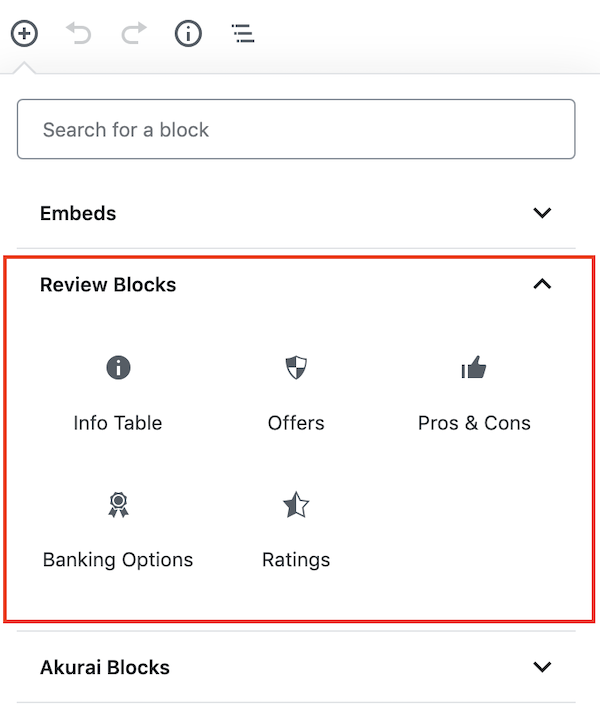
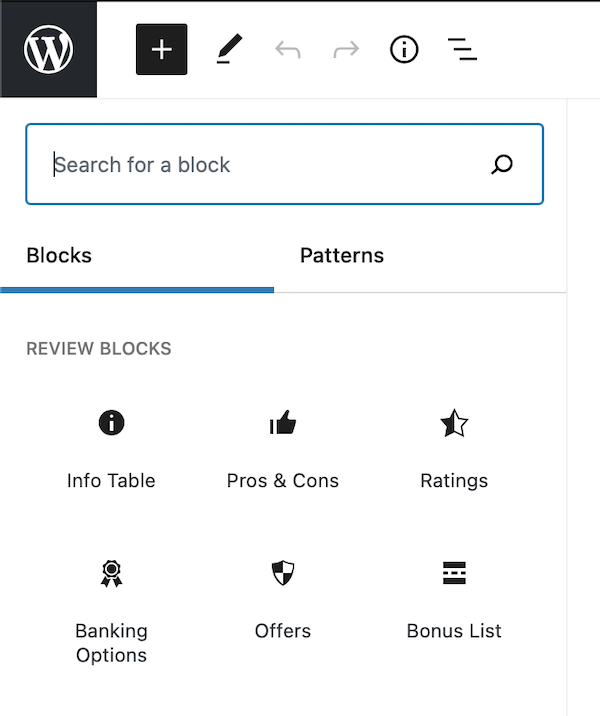
Akurai 2.0.4

diff --git a/build_production/docs/akurai/review-page-blocks/index.html b/build_production/docs/akurai/review-page-blocks/index.html
@@ -762,11 +762,14 @@
 <li>Ratings</li>
 <li>Banking</li>
 <li>Offers</li>
+<li>Bonus List</li>
 </ul>
 
 <p><img src="/assets/images/akurai/akurai-review-blocks.png" alt="akurai-review-blocks" /></p>
 
-<p>All the 5 blocks require no configuration, all you need is to just add them to the content by clicking on the block name. The information is populated from <a href="/docs/akurai/creating-review-pages/">Review Fields</a> that you need to have filled in beforehand.</p>
+<p>The 5 blocks, except Bonus List, require no configuration, all you need is to just add them to the content by clicking on the block name. The information is populated from <a href="/docs/akurai/creating-review-pages/">Review Fields</a> that you need to have filled in beforehand.</p>
+
+<p>For Bonus List block you need to specify bonuses and their names, as well as optional heading and button texts.</p>
 
 <h3>Shortcodes</h3>
 
@@ -774,11 +777,17 @@
 
 <ul>
 <li><code>[info]</code></li>
-<li><code>[offers]</code></li>
 <li><code>[pros_cons]</code></li>
-<li><code>[banking]</code></li>
 <li><code>[ratings]</code></li>
+<li><code>[banking]</code></li>
+<li><code>[offers]</code></li>
+<li><code>[bonus_list]</code></li>
 </ul>
+
+<p>For <code>[bonus_list]</code> shortcode here's how too specify bonuses:</p>
+
+<pre><code>[bonus_list bonus_1="1st BONUS" bonus_2="2nd BONUS" bonus_3="" bonus_4="" bonus_5=""]
+</code></pre>
 
 <h3>Blocks in Content Area</h3>
 
@@ -805,7 +814,7 @@
 
         <nav id="js-page-menu" class="page-menu hidden py-8 lg:w-48 lg:max-w-sidebar lg:block sticky" style="top: 4rem;">
             <h4 class="mb-8 font-bold text-grey text-lg pb-1 border-b inline-block">
-                AKURAI v2.0.3
+                AKURAI v2.0.4
             </h4>
 
             <div id="page-menu-wrapper" class="mb-8"></div>

diff --git a/build_production/docs/akurai/blocks-shortcodes/index.html b/build_production/docs/akurai/blocks-shortcodes/index.html
@@ -993,7 +993,7 @@ At the bottom, adjust the column count (2, 3, 4), whether the blog is contained 
 
         <nav id="js-page-menu" class="page-menu hidden py-8 lg:w-48 lg:max-w-sidebar lg:block sticky" style="top: 4rem;">
             <h4 class="mb-8 font-bold text-grey text-lg pb-1 border-b inline-block">
-                AKURAI v2.0.3
+                AKURAI v2.0.4
             </h4>
 
             <div id="page-menu-wrapper" class="mb-8"></div>

diff --git a/build_production/docs/akurai/customizations/index.html b/build_production/docs/akurai/customizations/index.html
@@ -846,7 +846,7 @@ First of all, you can disable featured images on single post pages. You can disa
 
         <nav id="js-page-menu" class="page-menu hidden py-8 lg:w-48 lg:max-w-sidebar lg:block sticky" style="top: 4rem;">
             <h4 class="mb-8 font-bold text-grey text-lg pb-1 border-b inline-block">
-                AKURAI v2.0.3
+                AKURAI v2.0.4
             </h4>
 
             <div id="page-menu-wrapper" class="mb-8"></div>

diff --git a/build_production/docs/akurai/widget-areas/index.html b/build_production/docs/akurai/widget-areas/index.html
@@ -799,7 +799,7 @@ This way you can have long footer without having to worry about their responsive
 
         <nav id="js-page-menu" class="page-menu hidden py-8 lg:w-48 lg:max-w-sidebar lg:block sticky" style="top: 4rem;">
             <h4 class="mb-8 font-bold text-grey text-lg pb-1 border-b inline-block">
-                AKURAI v2.0.3
+                AKURAI v2.0.4
             </h4>
 
             <div id="page-menu-wrapper" class="mb-8"></div>

diff --git a/build_production/docs/akurai/widgets/index.html b/build_production/docs/akurai/widgets/index.html
@@ -795,7 +795,7 @@ Add a widget title, adjust settings: how to display terms and conditions and the
 
         <nav id="js-page-menu" class="page-menu hidden py-8 lg:w-48 lg:max-w-sidebar lg:block sticky" style="top: 4rem;">
             <h4 class="mb-8 font-bold text-grey text-lg pb-1 border-b inline-block">
-                AKURAI v2.0.3
+                AKURAI v2.0.4
             </h4>
 
             <div id="page-menu-wrapper" class="mb-8"></div>

diff --git a/build_production/docs/akurai/index.html b/build_production/docs/akurai/index.html
@@ -788,7 +788,7 @@ Here are 4 demos for you:</p>
 
         <nav id="js-page-menu" class="page-menu hidden py-8 lg:w-48 lg:max-w-sidebar lg:block sticky" style="top: 4rem;">
             <h4 class="mb-8 font-bold text-grey text-lg pb-1 border-b inline-block">
-                AKURAI v2.0.3
+                AKURAI v2.0.4
             </h4>
 
             <div id="page-menu-wrapper" class="mb-8"></div>

diff --git a/build_production/docs/akurai/page-templates/index.html b/build_production/docs/akurai/page-templates/index.html
@@ -796,7 +796,7 @@ There's no sidebar used.</p>
 
         <nav id="js-page-menu" class="page-menu hidden py-8 lg:w-48 lg:max-w-sidebar lg:block sticky" style="top: 4rem;">
             <h4 class="mb-8 font-bold text-grey text-lg pb-1 border-b inline-block">
-                AKURAI v2.0.3
+                AKURAI v2.0.4
             </h4>
 
             <div id="page-menu-wrapper" class="mb-8"></div>

diff --git a/build_production/docs/akurai/amp/index.html b/build_production/docs/akurai/amp/index.html
@@ -771,7 +771,7 @@
 
         <nav id="js-page-menu" class="page-menu hidden py-8 lg:w-48 lg:max-w-sidebar lg:block sticky" style="top: 4rem;">
             <h4 class="mb-8 font-bold text-grey text-lg pb-1 border-b inline-block">
-                AKURAI v2.0.3
+                AKURAI v2.0.4
             </h4>
 
             <div id="page-menu-wrapper" class="mb-8"></div>

diff --git a/build_production/docs/akurai/breadcrumbs/index.html b/build_production/docs/akurai/breadcrumbs/index.html
@@ -781,7 +781,7 @@
 
         <nav id="js-page-menu" class="page-menu hidden py-8 lg:w-48 lg:max-w-sidebar lg:block sticky" style="top: 4rem;">
             <h4 class="mb-8 font-bold text-grey text-lg pb-1 border-b inline-block">
-                AKURAI v2.0.3
+                AKURAI v2.0.4
             </h4>
 
             <div id="page-menu-wrapper" class="mb-8"></div>

diff --git a/build_production/docs/akurai/child-theme/index.html b/build_production/docs/akurai/child-theme/index.html
@@ -751,7 +751,7 @@
 
         <nav id="js-page-menu" class="page-menu hidden py-8 lg:w-48 lg:max-w-sidebar lg:block sticky" style="top: 4rem;">
             <h4 class="mb-8 font-bold text-grey text-lg pb-1 border-b inline-block">
-                AKURAI v2.0.3
+                AKURAI v2.0.4
             </h4>
 
             <div id="page-menu-wrapper" class="mb-8"></div>

diff --git a/build_production/docs/akurai/creating-review-pages/index.html b/build_production/docs/akurai/creating-review-pages/index.html
@@ -842,7 +842,7 @@
 
         <nav id="js-page-menu" class="page-menu hidden py-8 lg:w-48 lg:max-w-sidebar lg:block sticky" style="top: 4rem;">
             <h4 class="mb-8 font-bold text-grey text-lg pb-1 border-b inline-block">
-                AKURAI v2.0.3
+                AKURAI v2.0.4
             </h4>
 
             <div id="page-menu-wrapper" class="mb-8"></div>

diff --git a/build_production/docs/akurai/homepage-templates/index.html b/build_production/docs/akurai/homepage-templates/index.html
@@ -811,7 +811,7 @@
 
         <nav id="js-page-menu" class="page-menu hidden py-8 lg:w-48 lg:max-w-sidebar lg:block sticky" style="top: 4rem;">
             <h4 class="mb-8 font-bold text-grey text-lg pb-1 border-b inline-block">
-                AKURAI v2.0.3
+                AKURAI v2.0.4
             </h4>
 
             <div id="page-menu-wrapper" class="mb-8"></div>
